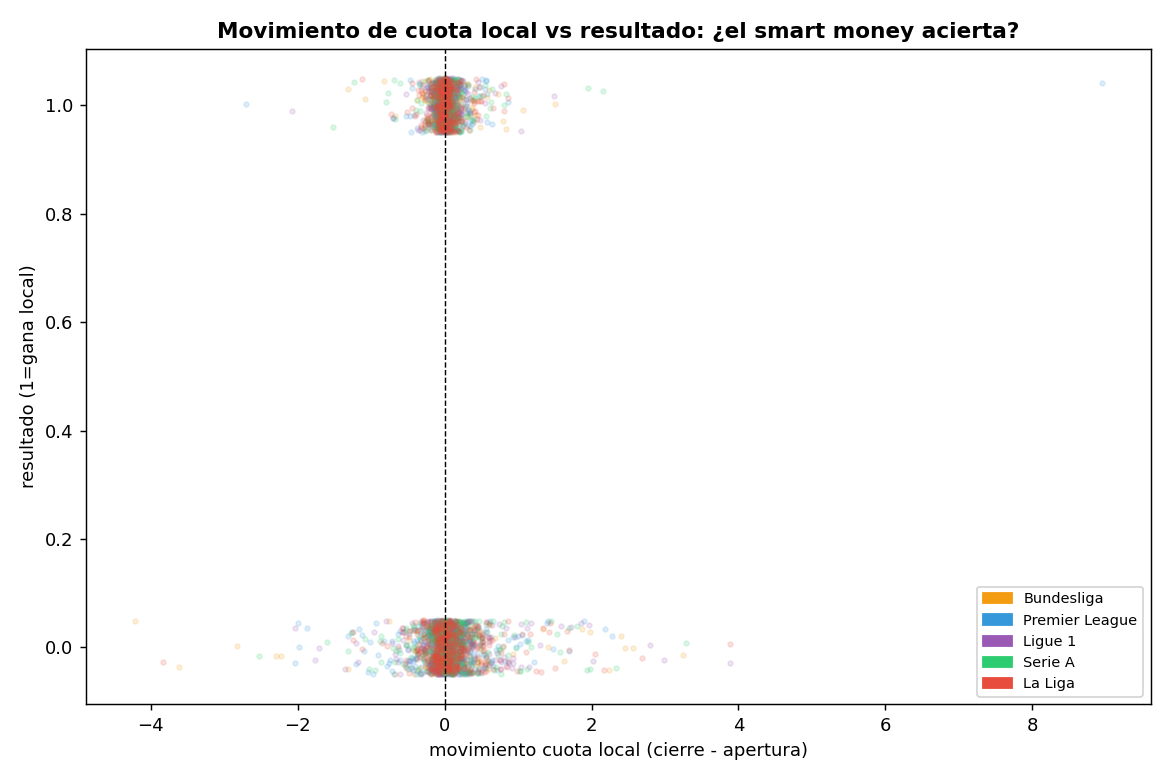
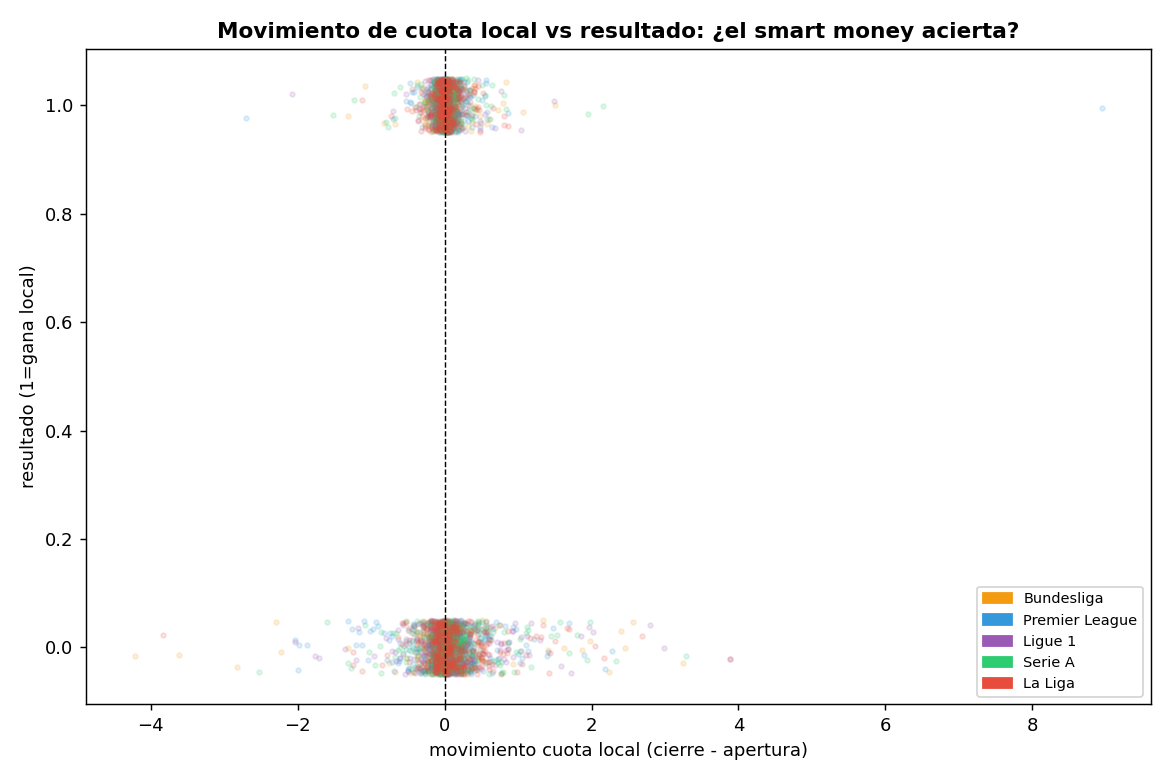
se arreglaron algunas advertencias

Changed region(s): [[0.2154, 0.7692, 0.5538, 0.8923], [0.3077, 0.0923, 0.4615, 0.1846]]

diff --git a/Practica 3/data_visualization.py b/Practica 3/data_visualization.py
@@ -729,7 +729,7 @@ for liga in ligas:
     # boxplot de las tres cuotas para ver su dispersion
     ax02 = fig.add_subplot(gs[0, 2])
     ax02.boxplot([sub["AvgH"].dropna(), sub["AvgD"].dropna(), sub["AvgA"].dropna()],
-                 labels=["AvgH","AvgD","AvgA"], patch_artist=True,
+                 tick_labels=["AvgH","AvgD","AvgA"], patch_artist=True,
                  boxprops=dict(facecolor=LIGA_COLORS[liga], alpha=0.6))
     ax02.set_title("Distribucion cuotas", fontsize=9); ax02.set_ylabel("cuota")
 
